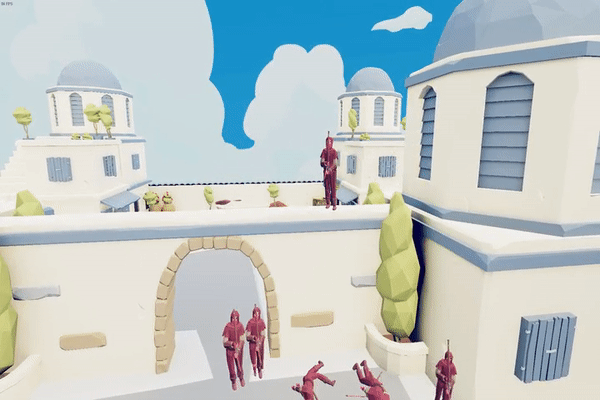
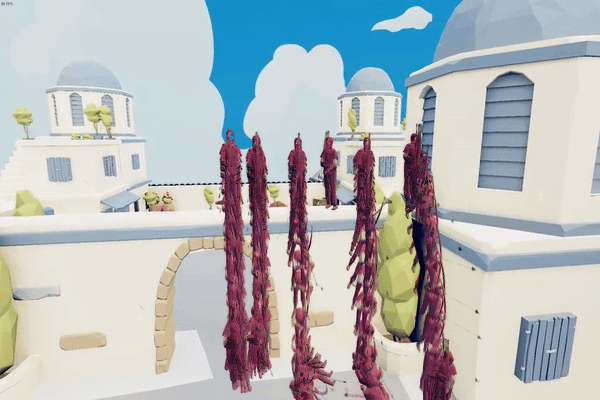
fixed cloudremover

diff --git a/prr1/Cloud4/cloud/ImageFromGif.java b/prr1/Cloud4/cloud/ImageFromGif.java
@@ -10,7 +10,9 @@ import javax.imageio.ImageIO;
 import javax.imageio.ImageReader;
 import javax.imageio.metadata.IIOMetadata;
 import javax.imageio.stream.ImageInputStream;
+import java.awt.*;
 import java.awt.image.BufferedImage;
+import java.awt.image.RenderedImage;
 import java.io.BufferedWriter;
 import java.io.File;
 import java.io.FileWriter;
@@ -21,41 +23,43 @@ import java.util.Map;
 
 public class ImageFromGif {
 
-    public static void main(String[] args) {
+    public static void main(String[] args) throws IOException {
 
         //Choose file to process
         File file = new File("tabs.gif");
 
-        //Create arraylist for all images
-        ArrayList<BufferedImage> images = new ArrayList();
+        int frameCount = 0;
 
         //try to get frames from file to arraylist
         try {
-            images = getFrames(file);
+            frameCount = getFrames(file);
         } catch (Exception e) {
             //print error and stop program on error
             e.printStackTrace();
             return;
         }
 
+        //Initiate output image as first image in array
+        File originImage = new File("0cloudTemp.gif");
+        BufferedImage outImage = ImageIO.read(originImage);
+
         //get width, height and framecount
-        int width = images.get(0).getWidth();
-        int height = images.get(0).getHeight();
-        int frameCount = images.size();
+        int width = outImage.getWidth();
+        int height = outImage.getHeight();
+
 
         //print width, height and framecount
         System.out.println("Width: " + width);
         System.out.println("Height: " + height);
         System.out.println("Frame Count: " + frameCount);
 
-        //Initiate output image as first image in array
-        BufferedImage outImage = images.get(0);
 
         //loop through all but first frames
         for (int i = 1; i < frameCount; i++) {
 
             //get current frame
-            BufferedImage image = images.get(1);
+            File imageFile = new File(i + "cloudTemp.gif");
+            BufferedImage image = ImageIO.read(imageFile);
 
             //loop through pixels on x axis
             for (int x = 0; x < width; x++) {
@@ -70,30 +74,19 @@ public class ImageFromGif {
                     int imageColor = image.getRGB(x, y);
                     int imageBrightness = colorToCombinedRGB(image.getRGB(x, y));
 
-                    if (outColor != imageColor) {
-                        System.out.println("NOT EQUAL!");
-                    }
-
                     //System.out.println("frame: "+i+" x: "+x+" y: "+y+" imagebri: "+imageBrightness+" outbri: "+outBrightness);
                     if (imageBrightness < outBrightness) {
                         outImage.setRGB(x, y, imageColor);
                     }
-
-
-
                 }
             }
+
+            imageFile.delete();
         }
 
-        saveImage(images.get(1));
+        saveImage(outImage);
 
-        for (int i = 0; i < 30; i++) {
-            try {
-                ImageIO.write(images.get(i), "PNG", new File( i + ".png"));
-            } catch (IOException e) {
-                e.printStackTrace();
-            }
-        }
+        originImage.delete();
     }
 
 
@@ -132,10 +125,9 @@ public class ImageFromGif {
      * @return
      * @throws IOException
      */
-    public static ArrayList<BufferedImage> getFrames(File gif) throws IOException {
+    public static int getFrames(File gif) throws IOException {
 
-        ArrayList<BufferedImage> images = new ArrayList();
-
+        int frameCount = 0;
         try {
             String[] imageatt = new String[]{
                     "imageLeftPosition",
@@ -145,10 +137,11 @@ public class ImageFromGif {
             };
 
             ImageReader reader = (ImageReader)ImageIO.getImageReadersByFormatName("gif").next();
-            ImageInputStream ciis = ImageIO.createImageInputStream(new File("tabs.gif"));
+            ImageInputStream ciis = ImageIO.createImageInputStream(gif);
             reader.setInput(ciis, false);
 
             int noi = reader.getNumImages(true);
+            //BufferedImage master = null;
             BufferedImage master = null;
 
             for (int i = 0; i < noi; i++) {
@@ -175,13 +168,13 @@ public class ImageFromGif {
                         master.getGraphics().drawImage(image, imageAttr.get("imageLeftPosition"), imageAttr.get("imageTopPosition"), null);
                     }
                 }
-                images.add(master);
-                ImageIO.write(master, "GIF", new File( i + ".gif"));
+                ImageIO.write((RenderedImage) master, "GIF", new File( i + "cloudTemp.gif"));
+                frameCount++;
             }
         } catch (IOException e) {
             e.printStackTrace();
         }
 
-        return images;
+        return frameCount;
     }
 }
